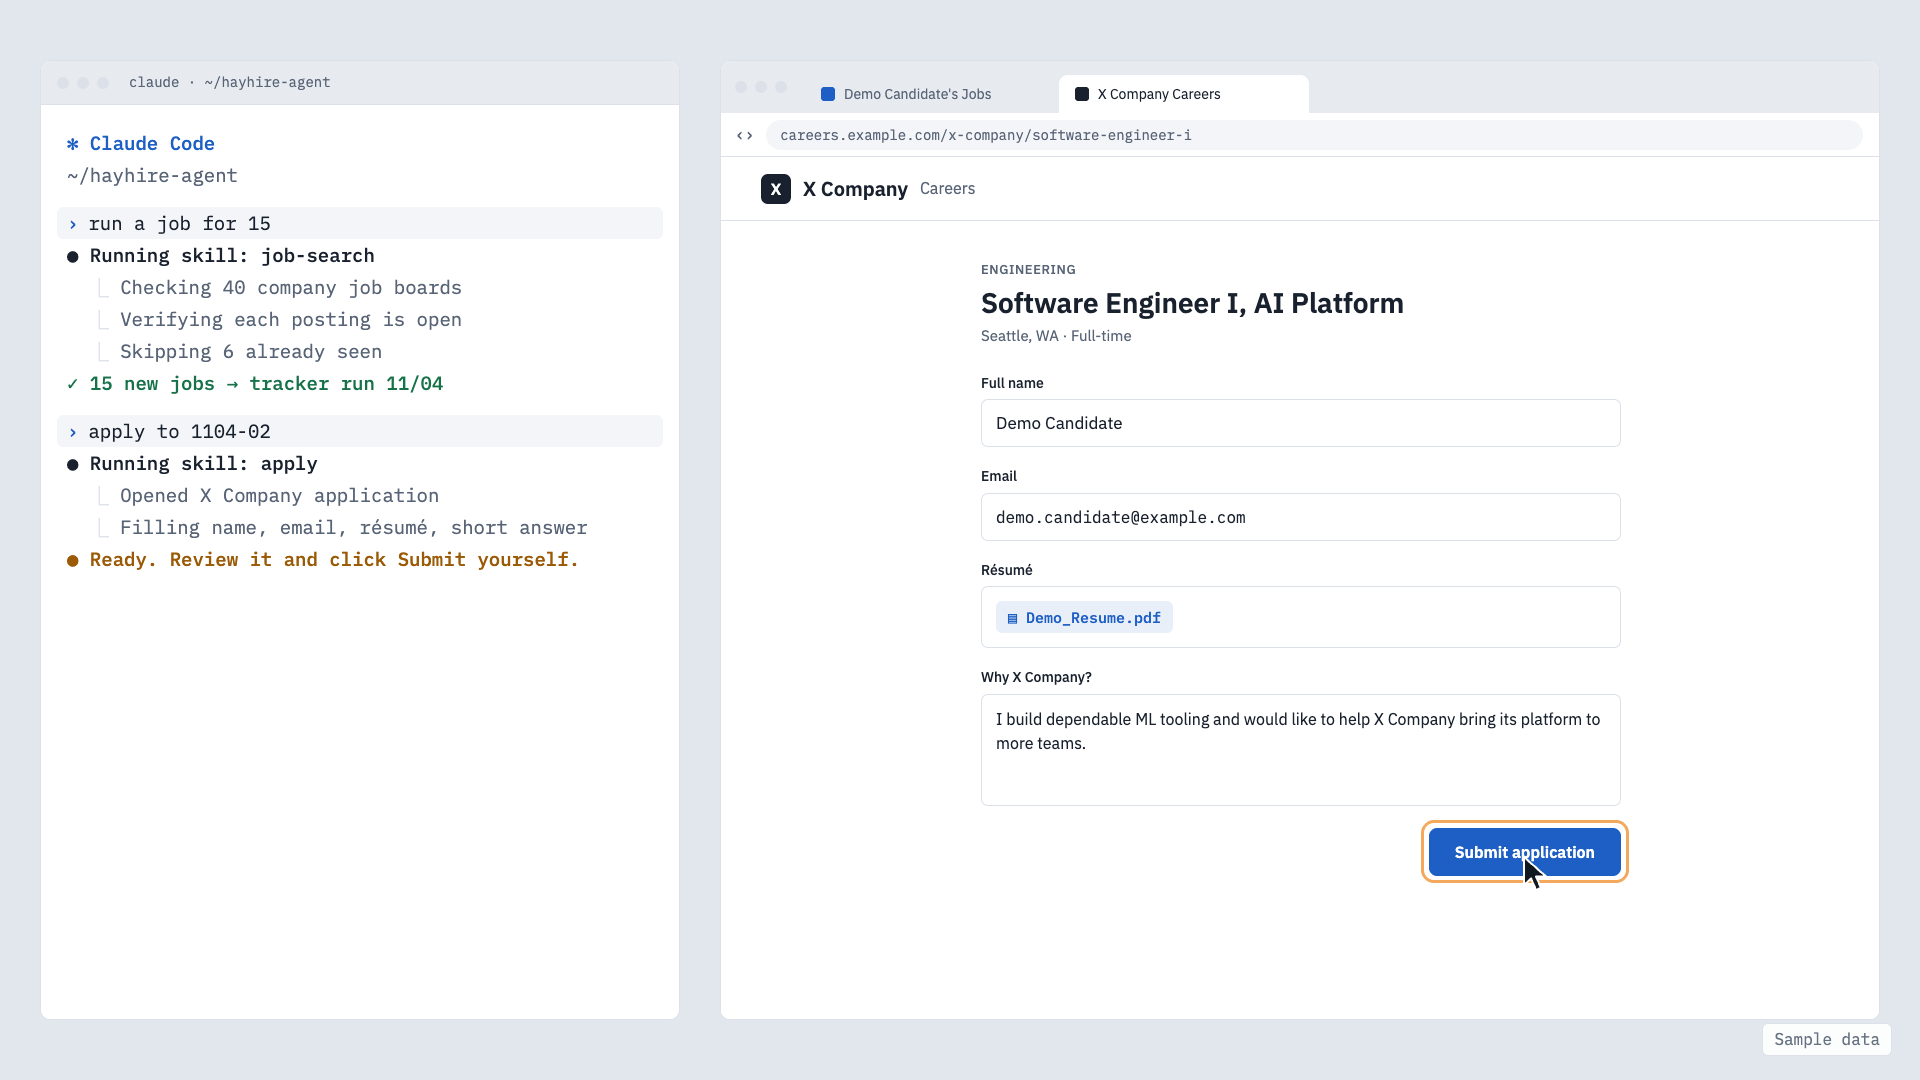
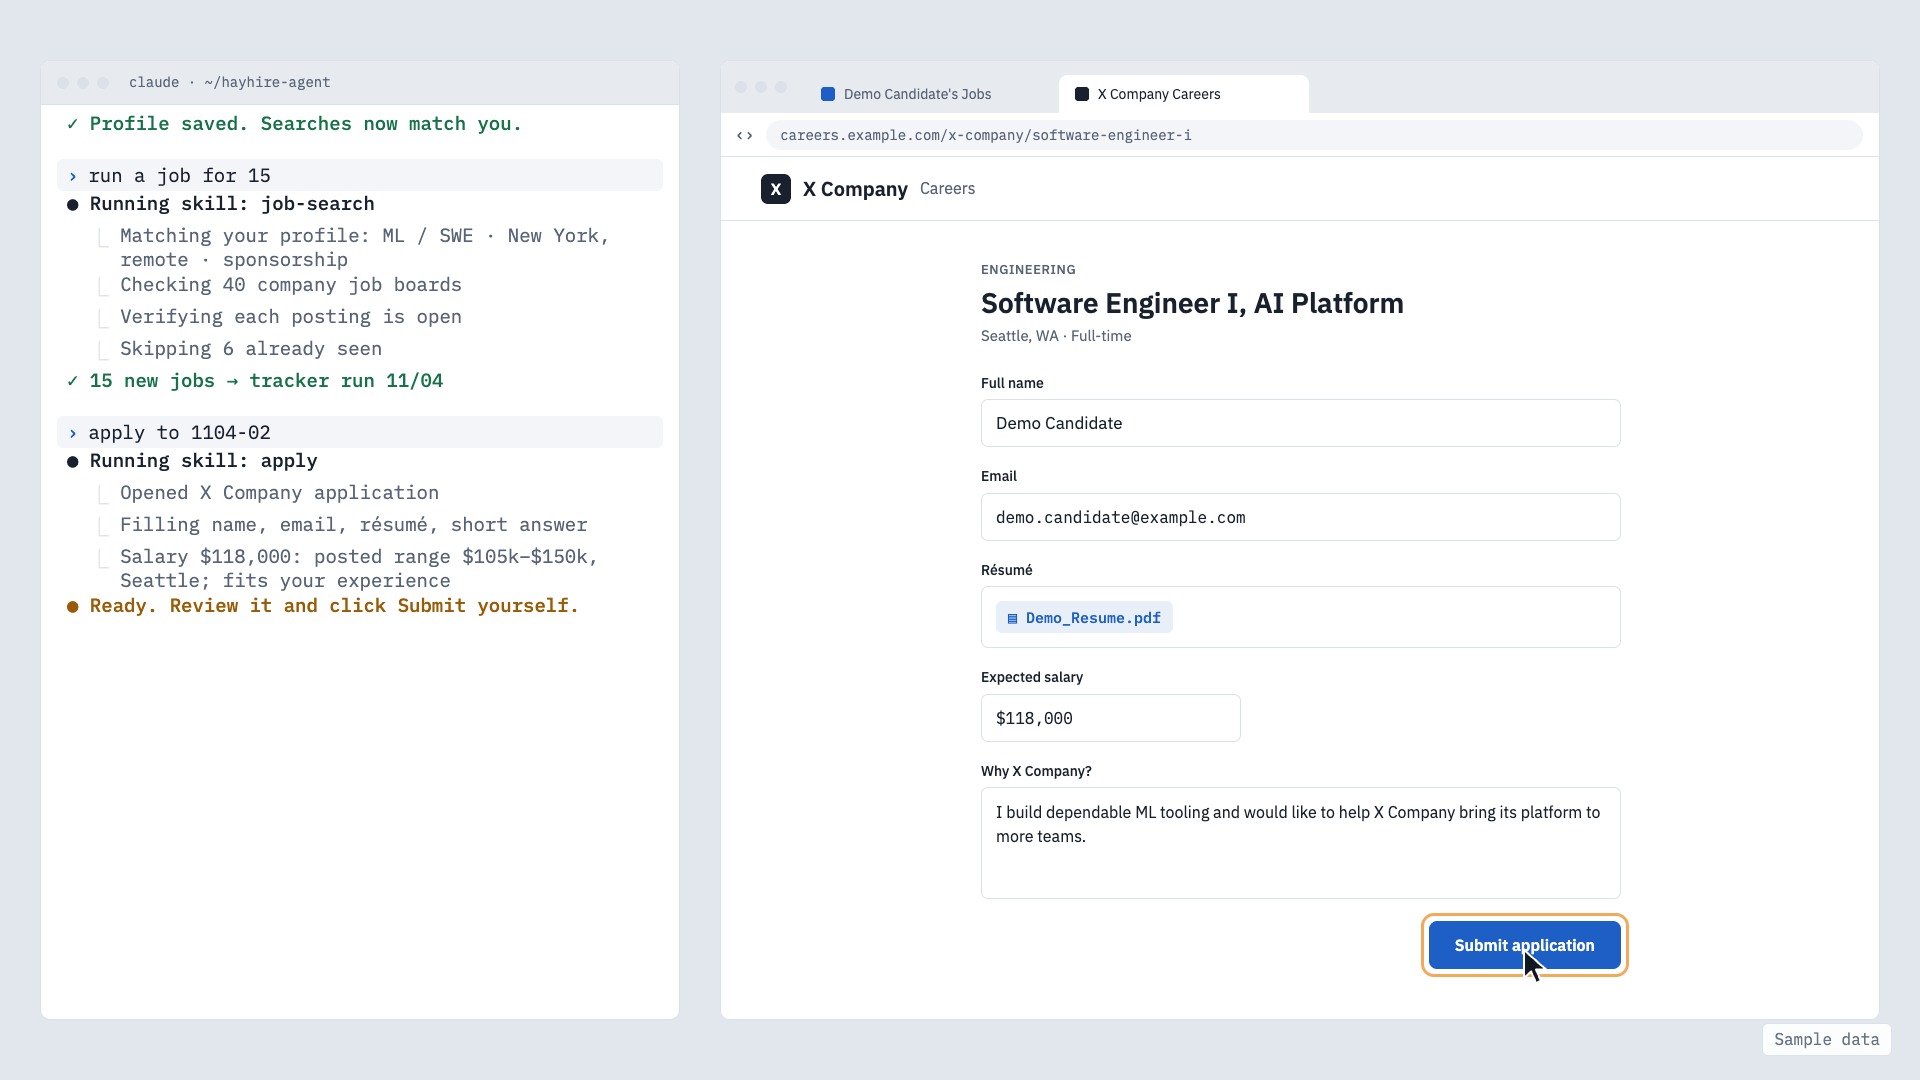
Update demo screenshots and add the setup step

Changed region(s): [[0.0312, 0.0917, 0.3125, 0.3667], [0.5, 0.6111, 0.8438, 0.9167], [0.0312, 0.3972, 0.3125, 0.5806]]

diff --git a/README.md b/README.md
@@ -14,7 +14,16 @@ This repo holds the skills and the harness. The Gmail side lives in its own repo
 
 *All names, companies and numbers below are sample data.*
 
-<p align="center"><b>1. Find</b>: every posting checked on the company's own site</p>
+<p><b>1. Set up once</b>: your resume plus a few clicks becomes your profile</p>
+
+<picture>
+  <source media="(prefers-color-scheme: dark)" srcset="docs/images/dark-0-setup.png">
+  <img src="docs/images/light-0-setup.png" alt="setup: the agent reads the resume and asks roles, locations and sponsorship as clickable questions" width="100%">
+</picture>
+
+<br>
+
+<p><b>2. Find</b>: jobs that match your profile, each checked on the company's own site</p>
 
 <picture>
   <source media="(prefers-color-scheme: dark)" srcset="docs/images/dark-1-job-search.png">
@@ -23,7 +32,7 @@ This repo holds the skills and the harness. The Gmail side lives in its own repo
 
 <br>
 
-<p align="center"><b>2. Apply</b>: the agent fills the form, a person clicks Submit</p>
+<p><b>3. Apply</b>: the agent fills the form and suggests a salary, a person clicks Submit</p>
 
 <picture>
   <source media="(prefers-color-scheme: dark)" srcset="docs/images/dark-2-apply.png">
@@ -32,7 +41,7 @@ This repo holds the skills and the harness. The Gmail side lives in its own repo
 
 <br>
 
-<p align="center"><b>3. Track</b>: replies read from email, merged, never deleted</p>
+<p><b>4. Track</b>: replies read from email, merged, never deleted</p>
 
 <picture>
   <source media="(prefers-color-scheme: dark)" srcset="docs/images/dark-3-history.png">
@@ -41,7 +50,7 @@ This repo holds the skills and the harness. The Gmail side lives in its own repo
 
 <br>
 
-<p align="center"><b>4. Outreach</b>: recruiter emails and who wrote back</p>
+<p><b>5. Outreach</b>: recruiter emails and who wrote back</p>
 
 <picture>
   <source media="(prefers-color-scheme: dark)" srcset="docs/images/dark-4-outreach.png">
